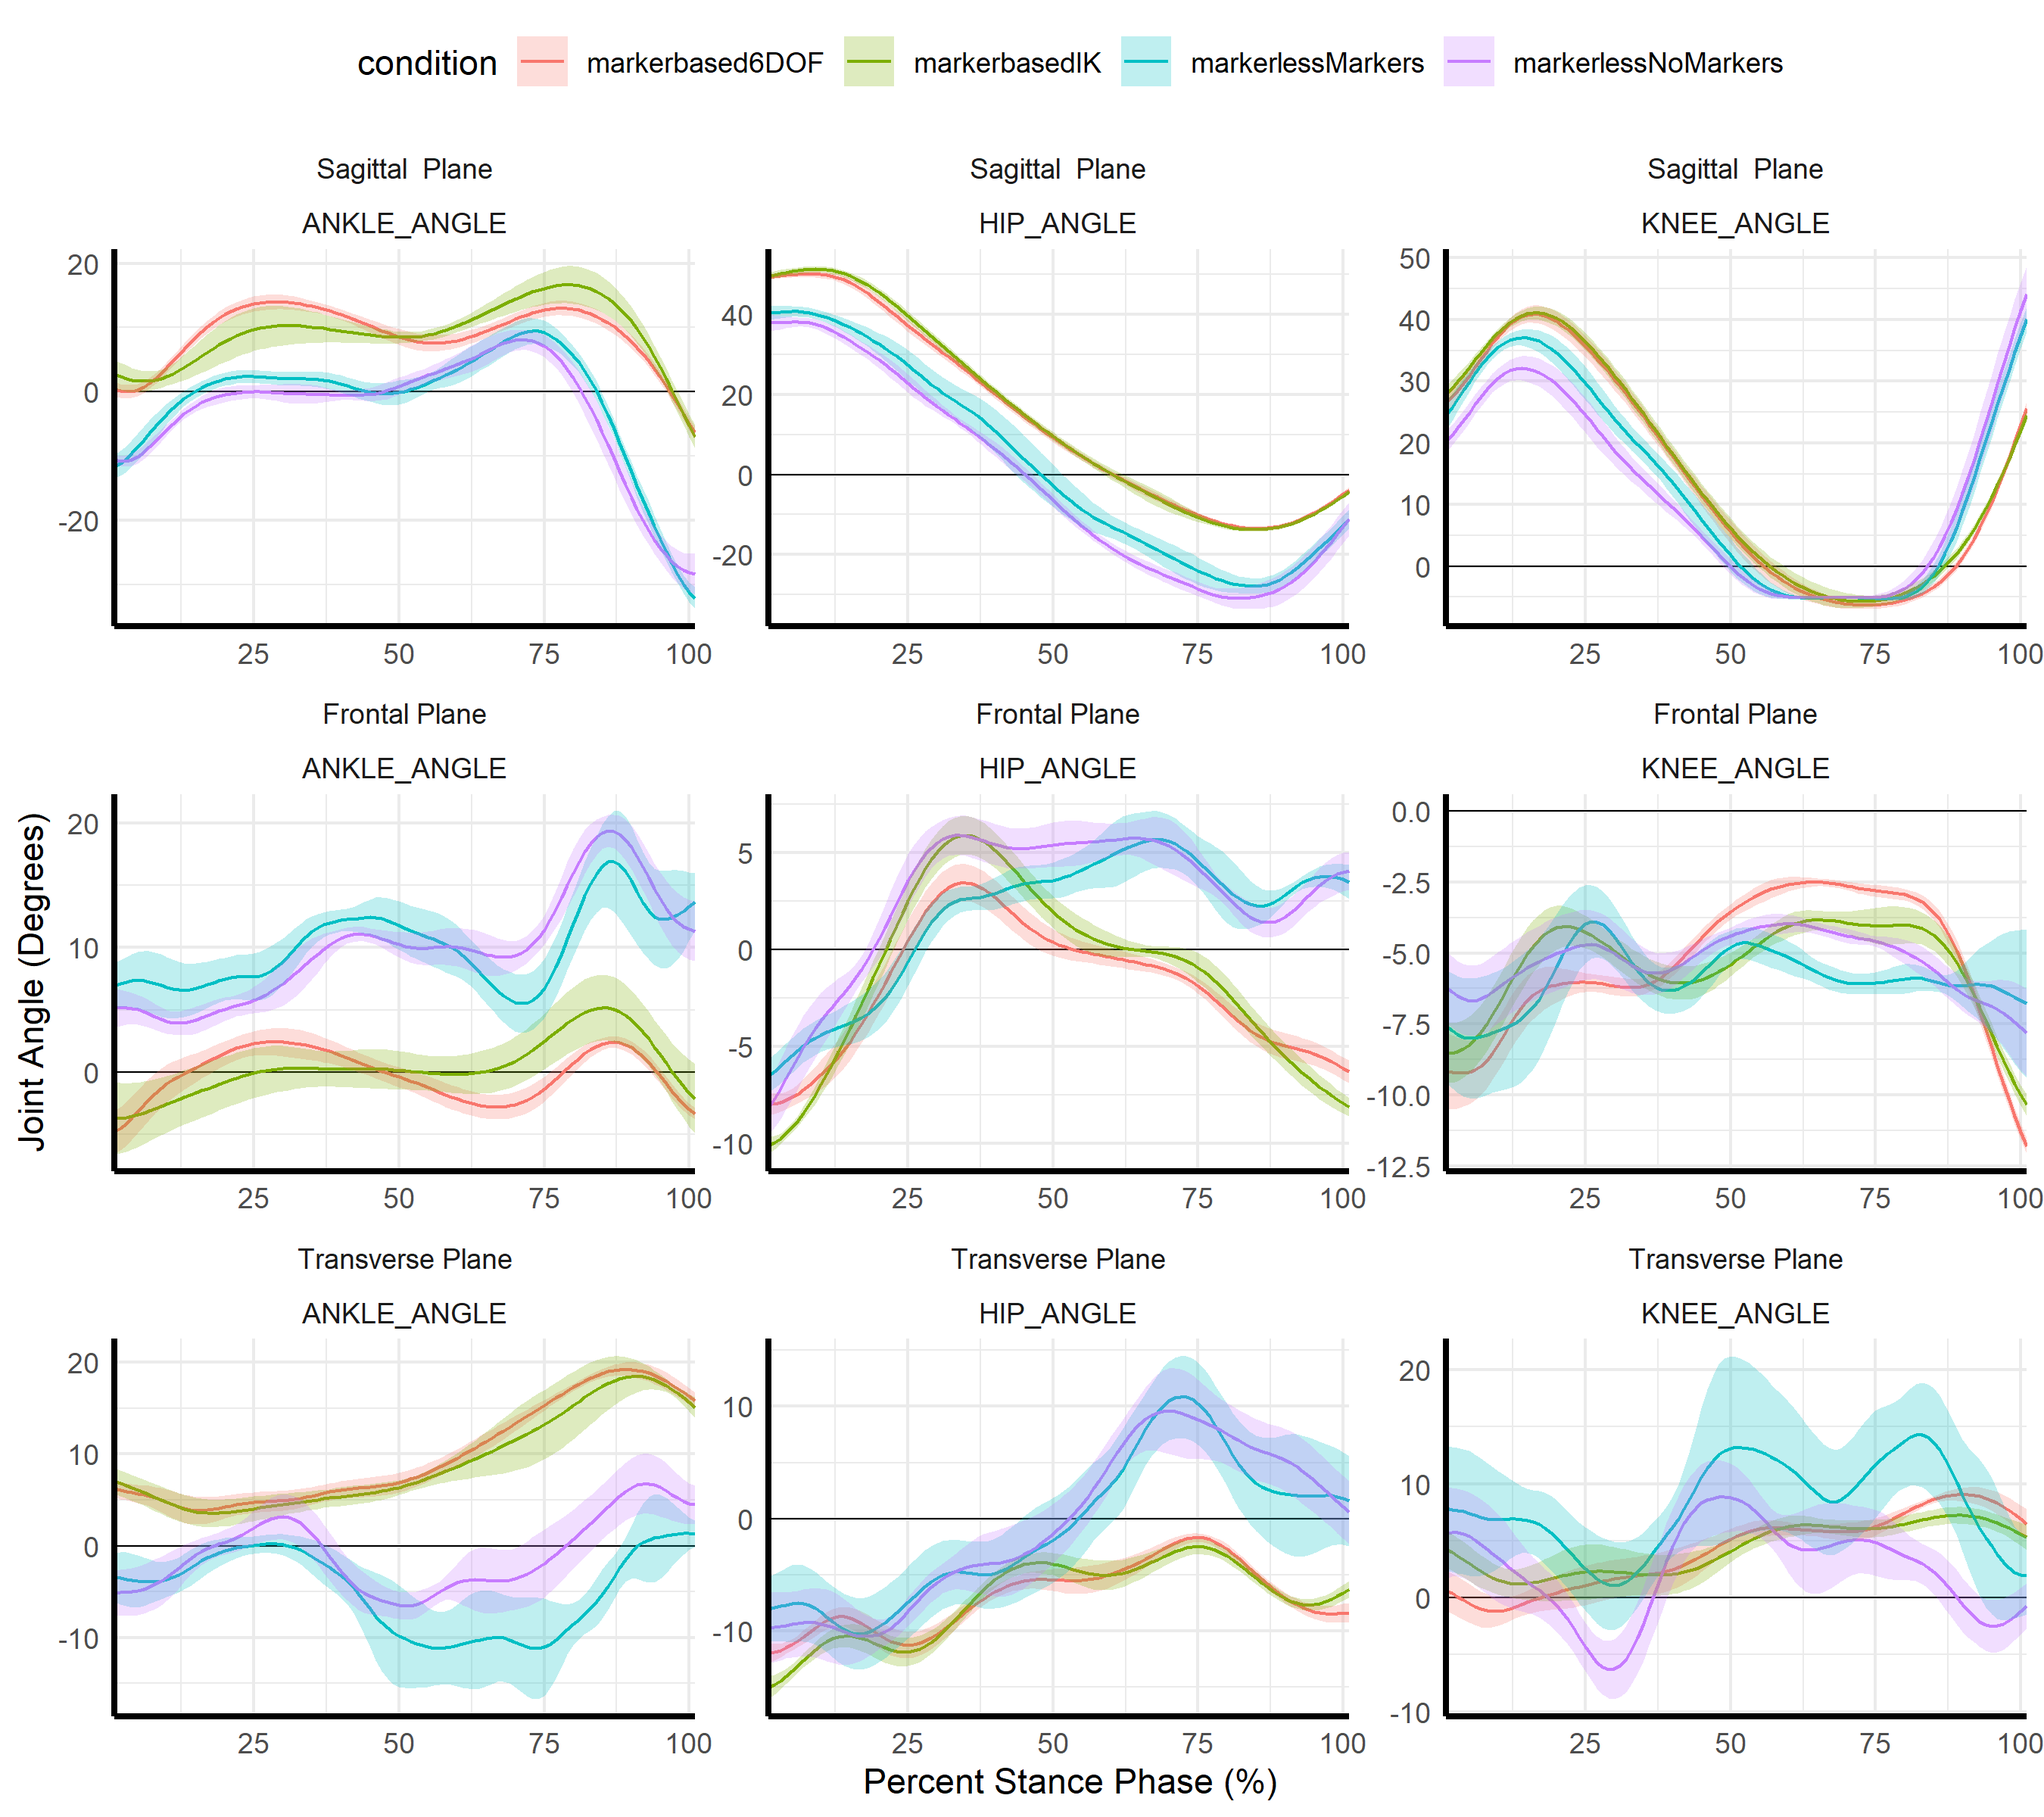
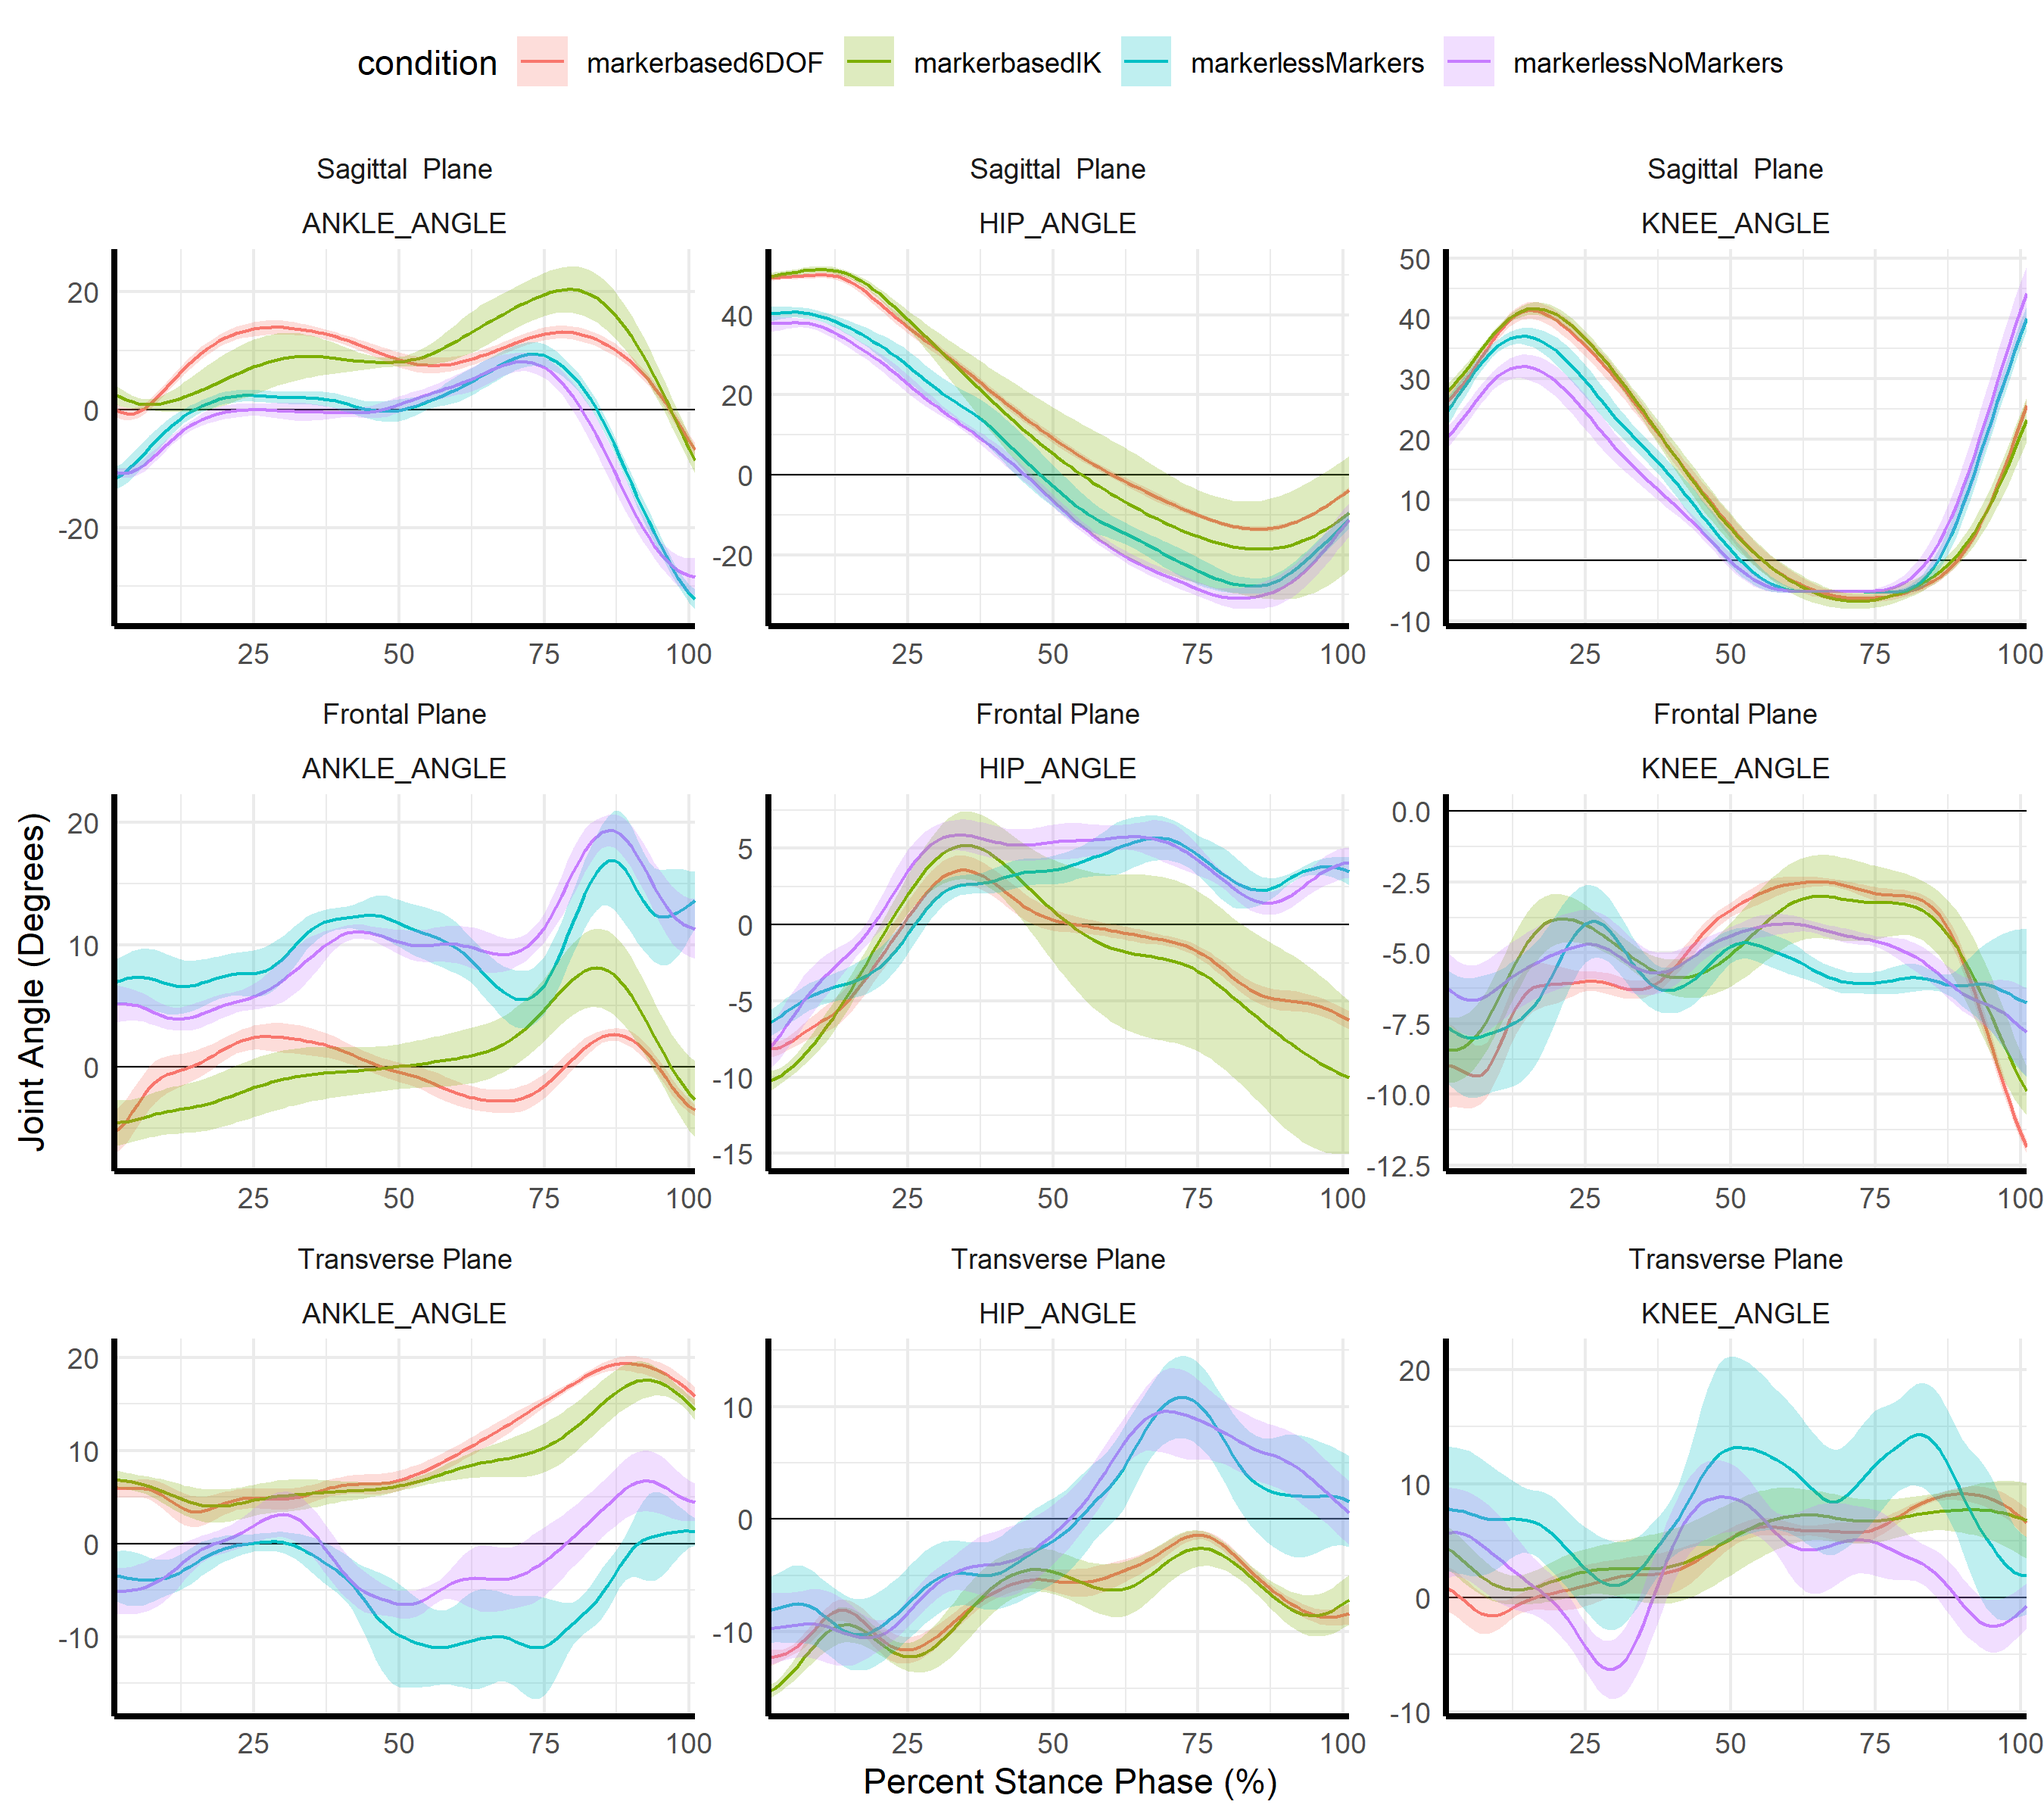
Updated data with GCVSPL filter

diff --git a/README.md b/README.md
@@ -33,11 +33,10 @@ performed prior to each gait trial to synchronize motion data with force
 data. In the case of the **markerlessNoMarkers** and the
 **markerbased6DOF**, all gait events (heelstrike and toeoff) were best
 matched (i.e. contain all the same strides but may be shifted slightly
-due to force syncing). An 8 Hz filter was used for the markerless and a
-6 Hz butterworth was used for the markerbased. *I may try and rerun with
-better matching kinematics filters.* All analog data were processed with
-a critically damped low pass filter with cutoff frequency of 30 Hz. *I
-only included stance phase data for now.*
+due to force syncing). An 8 Hz GCVSPL filter was used for both the
+markerless and markerbased kinematic data. All analog data were
+processed with a critically damped low pass filter with cutoff frequency
+of 30 Hz. *I only included stance phase data for now.*
 
 ## Data Processing
 
@@ -49,7 +48,7 @@ and functions required to reproduce this report.
 ### Attach R packages
 
 ``` r
-library(devtools)
+#library(devtools)
 #install_github("jouterleys/v3dR")
 library(v3dR)
 library(tidyverse)
